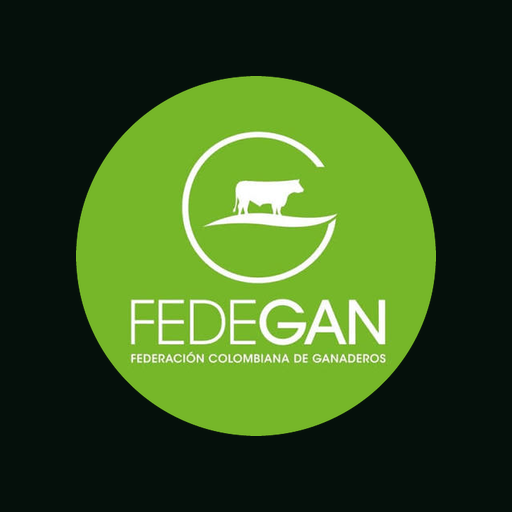
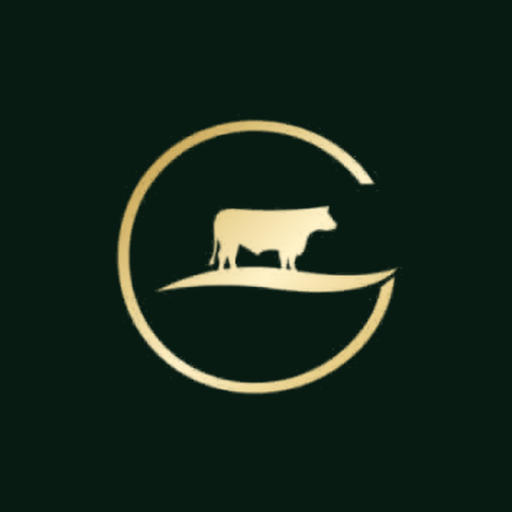
Pestaña y app instalada: nombre FEDEGÁN (sin FNG) e icono con el escudo dorado sobre verde oscuro #071B13

diff --git a/src/app/layout.tsx b/src/app/layout.tsx
@@ -42,25 +42,28 @@ export const metadata: Metadata = {
   openGraph: {
     type: "website",
     locale: "es_CO",
-    siteName: "FEDEGÁN–FNG",
+    siteName: "FEDEGÁN",
     url: "/",
-    title: "FEDEGÁN–FNG · Federación Colombiana de Ganaderos",
+    title: "FEDEGÁN · Federación Colombiana de Ganaderos",
     description: "Noticias, programas, publicaciones, servicios y cifras del sector ganadero colombiano.",
-    images: [{ url: "/brand/fedegan-icon-round.png", width: 512, height: 512, alt: "FEDEGÁN–FNG" }],
+    images: [{ url: "/brand/fedegan-icon-round.png", width: 512, height: 512, alt: "FEDEGÁN" }],
   },
-  twitter: { card: "summary", title: "FEDEGÁN–FNG · Federación Colombiana de Ganaderos", description: "Noticias, programas, publicaciones, servicios y cifras del sector ganadero colombiano.", images: ["/brand/fedegan-icon-round.png"] },
+  twitter: { card: "summary", title: "FEDEGÁN · Federación Colombiana de Ganaderos", description: "Noticias, programas, publicaciones, servicios y cifras del sector ganadero colombiano.", images: ["/brand/fedegan-icon-round.png"] },
   robots: { index: true, follow: true, googleBot: { index: true, follow: true, "max-image-preview": "large", "max-snippet": -1, "max-video-preview": -1 } },
-  applicationName: "FEDEGÁN–FNG",
+  applicationName: "FEDEGÁN",
   category: "agricultura",
   appleWebApp: { capable: true, title: "FEDEGÁN", statusBarStyle: "black-translucent" },
   title: {
-    default: "FEDEGÁN–FNG · Federación Colombiana de Ganaderos",
-    template: "%s · FEDEGÁN–FNG",
+    default: "FEDEGÁN · Federación Colombiana de Ganaderos",
+    template: "%s · FEDEGÁN",
   },
   description:
-    "Portal institucional de FEDEGÁN–FNG, hub del ecosistema digital ganadero de Colombia: noticias, programas, publicaciones, servicios y cifras del sector.",
+    "Portal institucional de FEDEGÁN, hub del ecosistema digital ganadero de Colombia: noticias, programas, publicaciones, servicios y cifras del sector.",
   icons: {
-    icon: [{ url: "/brand/fedegan-icon-192.png", type: "image/png", sizes: "192x192" }],
+    icon: [
+      { url: "/brand/fedegan-icon-48.png", type: "image/png", sizes: "48x48" },
+      { url: "/brand/fedegan-icon-192.png", type: "image/png", sizes: "192x192" },
+    ],
     apple: "/brand/fedegan-icon-round.png",
   },
 };

diff --git a/src/app/manifest.ts b/src/app/manifest.ts
@@ -3,7 +3,7 @@ import type { MetadataRoute } from "next";
 export default function manifest(): MetadataRoute.Manifest {
   return {
     id: "/",
-    name: "FEDEGÁN–FNG · Federación Colombiana de Ganaderos",
+    name: "FEDEGÁN · Federación Colombiana de Ganaderos",
     short_name: "FEDEGÁN",
     description: "Portal institucional y hub del ecosistema digital ganadero de Colombia.",
     start_url: "/?source=pwa",
